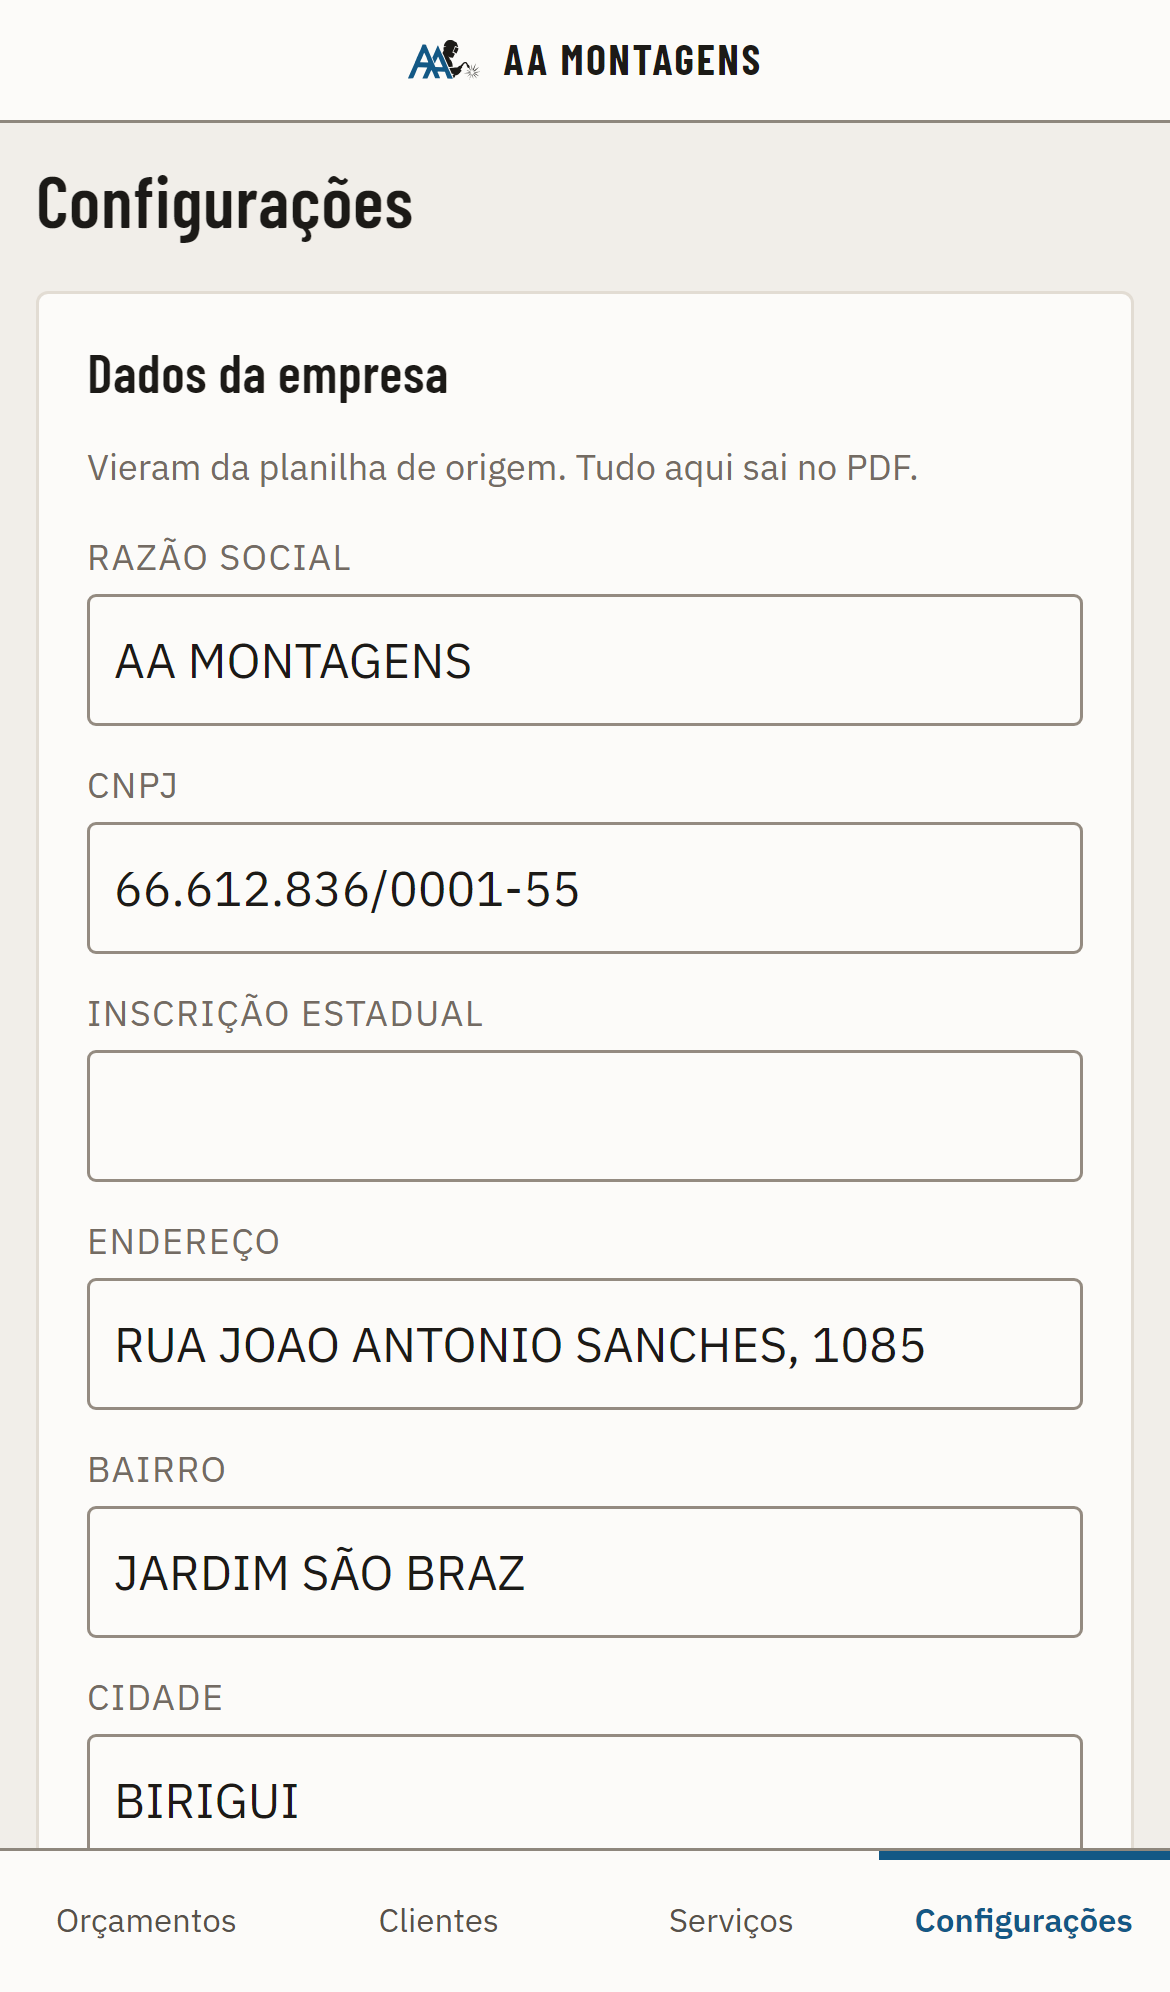
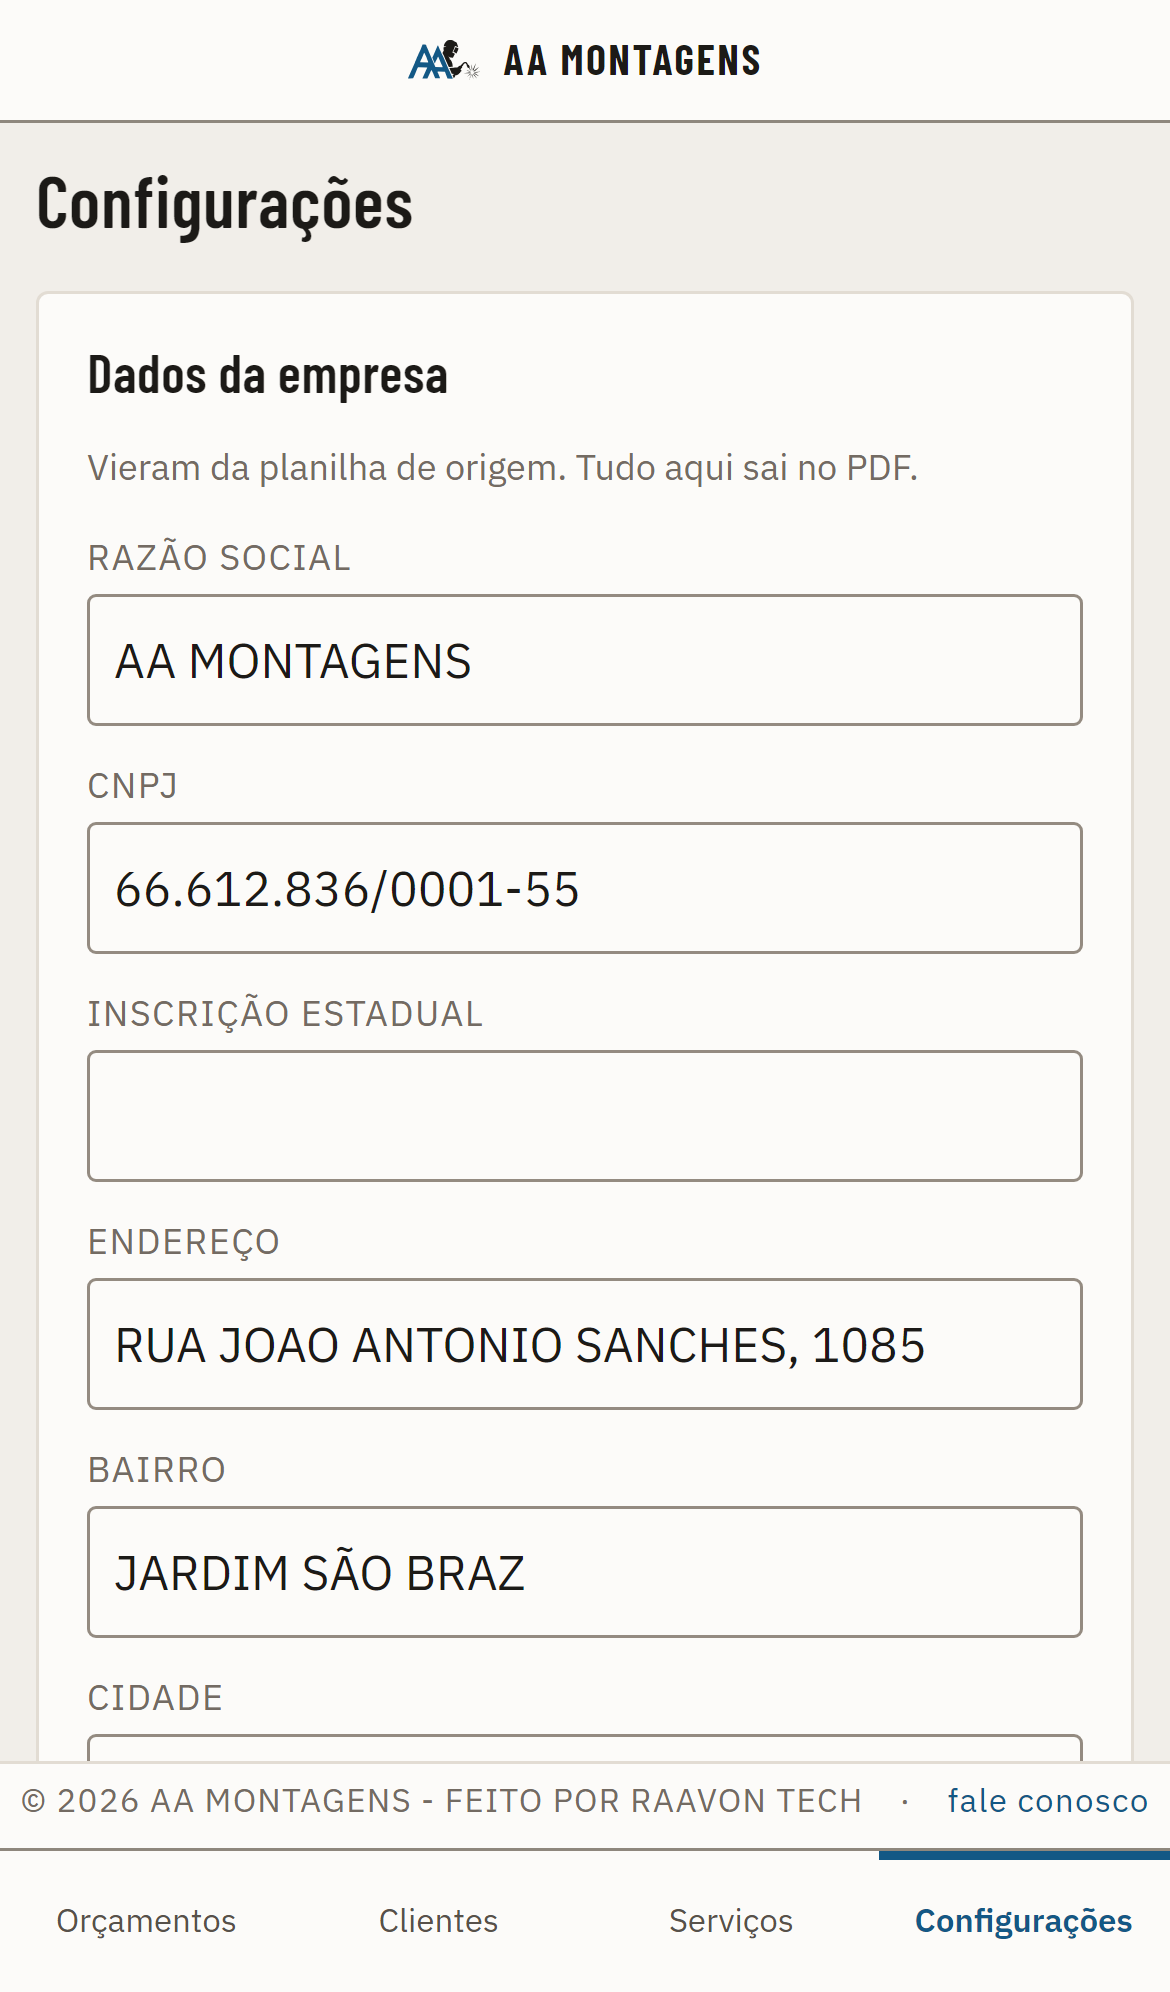
feat(rodape): creditos Raavon Tech fixos em toda tela e no PDF
- Rodape fixo no pe da janela, uma linha fina: "© ano AA MONTAGENS - FEITO
  POR RAAVON TECH · fale conosco" (link para o Instagram da Raavon, em aba
  nova). No celular fica logo acima da barra de navegacao; na tela de entrar,
  sem barra, encosta no pe. O ano acompanha o relogio (`src/creditos.ts`).
- PDF: a linha de creditos fixa em cada pagina, sem link.
- Corrige o rodape do PDF, que nao estava saindo (nem telefones, nem "Pagina
  X de Y"): no @react-pdf 4.9 um View fixo com Text dentro some, e o numero
  de pagina com `render` ancorado por `bottom` cai fora da folha. Cada peca
  virou um elemento fixo proprio, e o numero e ancorado pelo `top`.
- Exemplo de PDF, preview e fotos de celular regenerados; docs/pdf.md.

diff --git a/src/telas/rodape.test.tsx b/src/telas/rodape.test.tsx
@@ -1,0 +1,52 @@
+// @vitest-environment jsdom
+/**
+ * O rodape: creditos em toda tela (inclusive na porta) e o "fale conosco"
+ * apontando para o Instagram da Raavon Tech, em aba nova.
+ */
+import { afterEach, describe, expect, it, vi } from 'vitest';
+import { cleanup, render, screen } from '@testing-library/react';
+import { MemoryRouter } from 'react-router-dom';
+import { creditos, INSTAGRAM_RAAVON } from '../creditos';
+
+vi.mock('../dados/sessao', async (original) => ({
+  ...(await original<typeof import('../dados/sessao')>()),
+  useSessao: vi.fn(() => ({ estado: 'dentro', email: 'aamontagens@hotmail.com' })),
+  sair: vi.fn(),
+}));
+
+import { App } from '../App';
+import { useSessao } from '../dados/sessao';
+
+afterEach(cleanup);
+
+function montar() {
+  return render(
+    <MemoryRouter initialEntries={['/orcamentos']}>
+      <App />
+    </MemoryRouter>,
+  );
+}
+
+describe('rodape', () => {
+  it('os creditos trazem o ano corrente', () => {
+    expect(creditos(2026)).toBe('© 2026 AA MONTAGENS - FEITO POR RAAVON TECH');
+    expect(creditos()).toContain(String(new Date().getFullYear()));
+  });
+
+  it('aparece dentro do app, com o fale conosco em aba nova', async () => {
+    montar();
+    await screen.findByRole('heading', { name: 'Orçamentos' });
+    expect(screen.getByRole('contentinfo')).toHaveTextContent(/FEITO POR RAAVON TECH/);
+    const link = screen.getByRole('link', { name: 'fale conosco' });
+    expect(link).toHaveAttribute('href', INSTAGRAM_RAAVON);
+    expect(link).toHaveAttribute('target', '_blank');
+    expect(link).toHaveAttribute('rel', expect.stringContaining('noopener'));
+  });
+
+  it('aparece tambem na tela de entrar', () => {
+    vi.mocked(useSessao).mockReturnValueOnce({ estado: 'fora' });
+    montar();
+    expect(screen.getByRole('button', { name: 'Entrar' })).toBeInTheDocument();
+    expect(screen.getByRole('link', { name: 'fale conosco' })).toBeInTheDocument();
+  });
+});

diff --git a/src/pdf/estilos.ts b/src/pdf/estilos.ts
@@ -22,6 +22,7 @@ export const COR = {
 } as const;
 
 export const MARGEM = { topo: 36, lado: 36, base: 52 } as const;
+export const ALTURA_A4 = 841.89;
 export const LARGURA_UTIL = 595.28 - MARGEM.lado * 2;
 
 /** Larguras da tabela de itens, em pontos. Somam LARGURA_UTIL. */
@@ -249,16 +250,38 @@ export const estilos = StyleSheet.create({
   aceiteNota: { fontSize: 6.5, color: COR.tintaFraca, textAlign: 'center', marginTop: 1 },
 
   // ---- rodapé fixo ----
-  rodape: {
+  rodapeFio: {
     position: 'absolute',
-    bottom: 22,
+    bottom: 34,
     left: MARGEM.lado,
     right: MARGEM.lado,
-    flexDirection: 'row',
-    justifyContent: 'space-between',
-    borderTopWidth: 0.5,
-    borderColor: COR.linhaSutil,
-    paddingTop: 4,
+    height: 0.5,
+    backgroundColor: COR.linhaSutil,
   },
   rodapeTexto: { fontSize: 6.5, color: COR.tintaFraca },
+  rodapeEsquerda: { position: 'absolute', bottom: 24, left: MARGEM.lado },
+  // largura inteira + alinhado a direita: com `render`, o texto so existe na
+  // hora de desenhar, e uma caixa sem largura fixa fica com zero
+  rodapeDireita: {
+    position: 'absolute',
+    // mesma linha do texto da esquerda (bottom 24), so que ancorada pelo topo;
+    // os 3 pt a mais foram medidos no PDF gerado (o `render` mede diferente)
+    top: ALTURA_A4 - 24 - 6.5 * 1.35 - 3,
+    left: MARGEM.lado,
+    right: MARGEM.lado,
+    textAlign: 'right',
+    fontSize: 6.5,
+    color: COR.tintaFraca,
+  },
+  rodapeCreditos: {
+    position: 'absolute',
+    bottom: 13,
+    left: MARGEM.lado,
+    right: MARGEM.lado,
+    fontFamily: DISPLAY,
+    fontSize: 6,
+    letterSpacing: 0.6,
+    color: COR.tintaFraca,
+    textAlign: 'center',
+  },
 });

diff --git a/src/pdf/Documento.tsx b/src/pdf/Documento.tsx
@@ -18,6 +18,7 @@ import {
   totalDaSecao,
 } from '../domain/orcamento';
 import * as fmt from '../formato';
+import { creditos } from '../creditos';
 
 export interface PropsDocumento {
   orcamento: Orcamento;
@@ -351,14 +352,27 @@ function Rodape({ empresa }: { empresa: Configuracao['empresa'] }) {
     .filter(Boolean)
     .join('  ·  ');
 
+  // Cada peca e um elemento `fixed` proprio, posicionado em absoluto. Um View
+  // fixo com Text dentro nao aparecia no @react-pdf 4.9 (nem a borda) — so
+  // Text fixo solto rende. O fio de cima e um View vazio, so borda. E o
+  // numero da pagina e ancorado pelo `top`, nao pelo `bottom`: com `render`,
+  // o `bottom` sai da pagina (foi parar em y = -2331).
   return (
-    <View style={estilos.rodape} fixed>
-      <Text style={estilos.rodapeTexto}>{contato}</Text>
+    <>
+      <View style={estilos.rodapeFio} fixed />
+      <Text style={[estilos.rodapeTexto, estilos.rodapeEsquerda]} fixed>
+        {contato}
+      </Text>
       <Text
-        style={estilos.rodapeTexto}
+        style={estilos.rodapeDireita}
+        fixed
         render={({ pageNumber, totalPages }) => `Página ${pageNumber} de ${totalPages}`}
       />
-    </View>
+      {/* sem link: papel nao clica */}
+      <Text style={estilos.rodapeCreditos} fixed>
+        {creditos()}
+      </Text>
+    </>
   );
 }
 

diff --git a/src/estilos/base.css b/src/estilos/base.css
@@ -261,7 +261,8 @@ textarea {
 .pagina {
   max-width: 1280px;
   margin: 0 auto;
-  padding: var(--e-5) var(--e-4) var(--e-8);
+  /* embaixo, o espaco do rodape fixo mais folga */
+  padding: var(--e-5) var(--e-4) calc(var(--e-8) + var(--rodape-altura));
 }
 
 .painel {
@@ -376,4 +377,34 @@ textarea {
   clip: rect(0 0 0 0);
   white-space: nowrap;
   border: 0;
+}
+
+/* ---- rodape de todas as telas: uma linha fina, fixa no pe da janela ---- */
+.rodape-app {
+  position: fixed;
+  left: 0;
+  right: 0;
+  bottom: 0;
+  z-index: 10;
+  display: flex;
+  justify-content: center;
+  align-items: center;
+  gap: var(--e-3);
+  height: var(--rodape-altura);
+  padding: 0 var(--e-4);
+  background: var(--cor-papel);
+  border-top: var(--borda) solid var(--cor-linha-sutil);
+  font-size: var(--txt-2xs);
+  letter-spacing: 0.04em;
+  color: var(--cor-tinta-fraca);
+  white-space: nowrap;
+}
+
+.rodape-app a {
+  color: var(--cor-acao);
+  text-decoration: none;
+}
+
+.rodape-app a:hover {
+  text-decoration: underline;
 }

diff --git a/src/telas/Entrar.tsx b/src/telas/Entrar.tsx
@@ -10,6 +10,7 @@
  */
 import { useState, type ReactNode } from 'react';
 import { entrar, mensagemDoErro, pedirNovaSenha } from '../dados/sessao';
+import { Rodape } from './Rodape';
 import './formulario.css';
 import './entrar.css';
 
@@ -29,7 +30,10 @@ export function MolduraEntrar({ children }: { children: ReactNode }) {
         </div>
         <p className="entrar__rodape">Sistema interno · acesso restrito</p>
       </aside>
-      <main className="entrar__painel">{children}</main>
+      <main className="entrar__painel">
+        <div className="entrar__centro">{children}</div>
+        <Rodape />
+      </main>
     </div>
   );
 }

diff --git a/src/telas/Rodape.tsx b/src/telas/Rodape.tsx
@@ -1,0 +1,18 @@
+/**
+ * O rodape de todas as telas: os creditos e o "fale conosco" da Raavon Tech.
+ * O PDF tem o seu proprio (em `pdf/Documento.tsx`), sem o link — papel nao
+ * clica.
+ */
+import { creditos, INSTAGRAM_RAAVON } from '../creditos';
+
+export function Rodape() {
+  return (
+    <footer className="rodape-app">
+      <span>{creditos()}</span>
+      <span aria-hidden="true">·</span>
+      <a href={INSTAGRAM_RAAVON} target="_blank" rel="noopener noreferrer">
+        fale conosco
+      </a>
+    </footer>
+  );
+}

diff --git a/src/App.tsx b/src/App.tsx
@@ -9,6 +9,7 @@ import { Servicos } from './telas/Servicos';
 import { Configuracoes } from './telas/Configuracoes';
 import { Entrar } from './telas/Entrar';
 import { SemAcesso } from './telas/SemAcesso';
+import { Rodape } from './telas/Rodape';
 import { useSessao } from './dados/sessao';
 import { useOnline } from './dados/rede';
 
@@ -65,6 +66,7 @@ export function App() {
           <Route path="*" element={<Navigate to="/orcamentos" replace />} />
         </Routes>
       </main>
+      <Rodape />
     </>
   );
 }

diff --git a/src/telas/entrar.css b/src/telas/entrar.css
@@ -89,6 +89,11 @@
   display: grid;
   place-items: center;
   padding: clamp(var(--e-5), 6vw, var(--e-8));
+  padding-bottom: calc(clamp(var(--e-5), 6vw, var(--e-8)) + var(--rodape-altura));
+}
+
+.entrar__centro {
+  display: contents;
 }
 
 .entrar__form {
@@ -187,5 +192,10 @@
   .entrar__painel {
     align-items: start;
     padding-top: var(--e-6);
+  }
+
+  /* na porta nao ha barra de navegacao: o rodape encosta no pe */
+  .entrar .rodape-app {
+    bottom: env(safe-area-inset-bottom);
   }
 }

diff --git a/src/estilos/celular.css b/src/estilos/celular.css
@@ -62,7 +62,13 @@
      vazar para o lado e cada bloco caber, e e isso que as regras abaixo fazem. */
 
   .pagina {
-    padding: var(--e-3) var(--e-3) calc(var(--barra-altura) + var(--e-6));
+    padding: var(--e-3) var(--e-3) var(--e-5);
+  }
+
+  /* o rodape fica acima da navegacao fixa do pe */
+  .rodape-app {
+    padding: var(--e-3) var(--e-3)
+      calc(var(--barra-altura) + env(safe-area-inset-bottom) + var(--e-4));
   }
 
   /* ---- barra: marca em cima, navegacao fixa no pe ---- */

diff --git a/src/creditos.ts b/src/creditos.ts
@@ -1,0 +1,10 @@
+/**
+ * Os creditos que vao no rodape de toda tela e do PDF.
+ *
+ * O ano acompanha o relogio para nao envelhecer no lugar.
+ */
+export const INSTAGRAM_RAAVON = 'https://www.instagram.com/raavontech/';
+
+export function creditos(ano = new Date().getFullYear()): string {
+  return `© ${ano} AA MONTAGENS - FEITO POR RAAVON TECH`;
+}

diff --git a/src/estilos/tokens.css b/src/estilos/tokens.css
@@ -67,6 +67,7 @@
   --celula-pad-x: 8px;
   --celula-pad-y: 6px;
   --barra-altura: 48px;
+  --rodape-altura: 26px;
   --raio: 3px;
   --raio-lg: 4px;
   --borda: 1px;

diff --git a/docs/pdf.md b/docs/pdf.md
@@ -39,7 +39,7 @@ A4, margens de 36 pt nas laterais e no topo, 52 pt embaixo para o rodapé fixo.
 - **TOTAL A PAGAR** numa faixa azul sólida com o valor em Barlow Condensed 19 pt: é o número que o cliente procura. É o sub-total (total menos desconto): a entrada **não abate** (D5.1).
 - **Entrada e restante** vêm _depois_ da faixa, em tinta mais fraca — informam a condição de pagamento, não somam. Entrada zero não imprime as duas linhas.
 - **Aceite** com duas assinaturas e campo de data.
-- **Rodapé fixo** com os dois telefones, e-mail, cidade e "Página X de Y".
+- **Rodapé fixo** com os dois telefones, e-mail, cidade e "Página X de Y", e abaixo os créditos ("© ano AA MONTAGENS - FEITO POR RAAVON TECH", de `src/creditos.ts`, o mesmo texto do rodapé das telas). Cada peça é um elemento `fixed` próprio: um `View` fixo com `Text` dentro não aparecia no @react-pdf 4.9, e o número da página com `render` só fica no lugar ancorado pelo `top`.
 
 ### Cinco defeitos que só apareceram ao olhar o PDF renderizado
 
